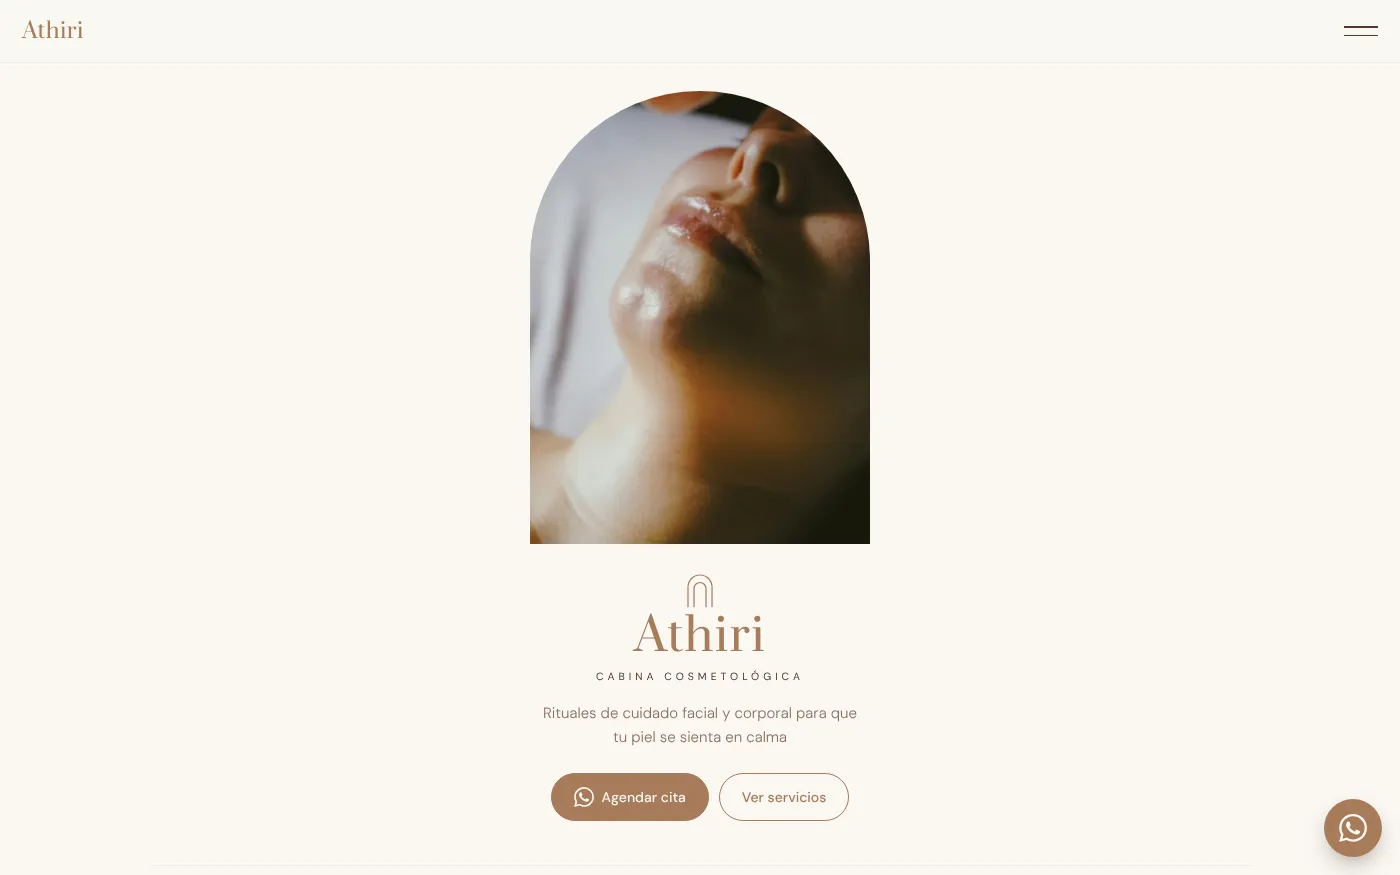
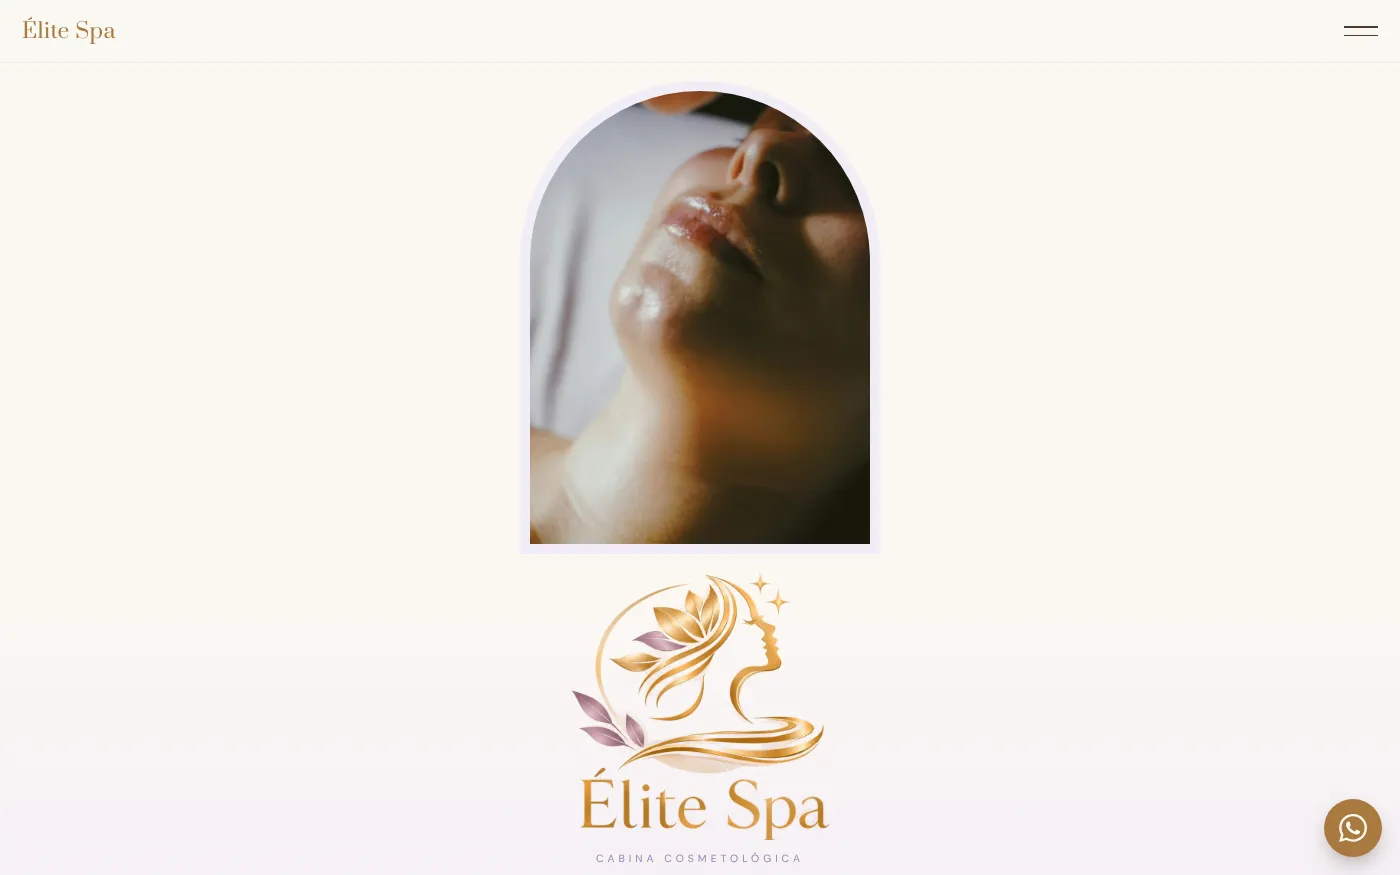
Portafolio: Élite Spa

Changed region(s): [[0.3686, 0.648, 0.6143, 0.9874], [0.9214, 0.8949, 1.0, 0.9874], [0.0307, 0.0309, 0.0921, 0.0617]]

diff --git a/src/components/Projects.tsx b/src/components/Projects.tsx
@@ -59,9 +59,9 @@ const proyectos: Proyecto[] = [
     dominio: "nails-glez",
   },
   {
-    nombre: "Athiri",
+    nombre: "Élite Spa",
     tipo: "Catálogo digital e impreso",
-    descripcion: "Cabina cosmetológica: catálogo de servicios para celular con precios, rituales, políticas y agenda por WhatsApp, Messenger y Facebook, más versión impresa con QR para recepción.",
+    descripcion: "Cabina cosmetológica: identidad con su logo y detalles lavanda, catálogo de servicios para celular con precios, rituales, políticas y agenda por WhatsApp, Messenger y Facebook, más versión impresa con QR para recepción.",
     tags: ["Catálogo web", "QR", "Versión impresa"],
     desktop: "/proyectos/athiri-d.webp",
     mobile: "/proyectos/athiri-m.webp",
